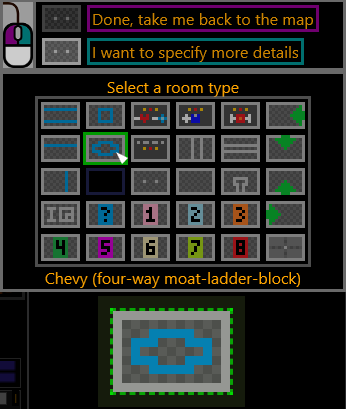
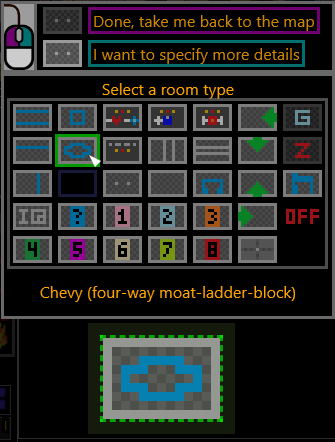
reset timer activates start-spot placement documentation fixes

diff --git a/doc/use.md b/doc/use.md
@@ -173,7 +173,8 @@ Question mark icon - Mouse hovering this brings up the "Mouse Hover Explainer" w
 
 Timer - Displays the amount of time you have spent on the seed
 
-'Pause/Reset timer' button - Click this to pause the timer.  You will then be given options to click on, to either resume or reset the timer.
+'Pause/Reset timer' button - Click this to pause the timer.  You will then be given options to click on, to either resume or reset the timer.  If you reset the timer,
+you will also activate the <a id="main-buttons">'Start Spot' button</a> to mark the starting screen on the overworld.
 
 <a id="spot-summary">'Spot Summary'</a> - Mouse-hovering 'Spot Summary' displays all the possible overworld locations that can be found, graying out the subset you have already found.
 This makes it easy to get an overview glance at what remains to be found, or see e.g. how many large secrets or door repair charges remain, if
@@ -287,7 +288,7 @@ tracker for "The Legend of Zelda" randomizer.
 
 There are a number of buttons near the bottom right of the overworld map.
 
-You can click the '**Start Spot**' button in the legend to mark your starting screen on the overworld map.
+You can click the '**Start Spot**' button in the legend to mark your starting screen on the overworld map.  This behavior also activates automatically when you reset the timer.
 
 <a id="helpful-hint">Clicking the '**Hint decoder**' button</a> in the bottom right pops up the 'Aquamentus Awaits' table, where you can populate location hints for dungeons/swords. 
 Each hinted-but-not-yet-found location causes a 'halo' to appear on the triforce/sword icon in the upper portion of the tracker, and hovering the halo
@@ -389,7 +390,7 @@ If all you care about it 'what rooms have I been in, and what rooms have I compl
 ![Dungeon room completed example screenshot](screenshots/dungeon-room-completed-example.png)
 
 If you want to change a RoomType (to mark a transport staircase, hungry Goriya, chevy moat, ...), then right-click the room to bring up the RoomType popup:
- - a grid of 30 possible types of rooms appear
+ - a grid of 34 possible types of rooms appear
  - choose the one you want with your mouse, and left-click it
 
 ![Dungeon room chooser screenshot](screenshots/dungeon-room-chooser.png)
@@ -426,9 +427,7 @@ zero extra mousing.
 
 There is one special RoomType, called OffTheMap.  This RoomType is displayed as a big black box over the room area, effectively making a 'hole' in the 
 dungeon map.  The main scenario for using it is in e.g. Shapes 9 when you have an Atlas; when first entering the dungeon, rather than 'paint out' all the 
-on-the-minimap rooms, it would be faster to just 'mark off the holes'.  RoomType.OffTheMap is not available in the room selection popup.  You can either use 
-it by mapping a hotkey, or you can also select it by right clicking a room to bring up the popup, right clicking the Unmarked tile in the grid, and then 
-right clicking the Unmarked preview-tile to save the room.  That is, triple-right-clicking an Unmarked room will turn it into OffTheMap.  An example of 
+on-the-minimap rooms, it would be faster to just 'mark off the holes'.  RoomType.OffTheMap appears as "OFF" in the room selection popup.  An example of 
 marking eight OffTheMap spots appears in this screenshot:
 
 ![DungeonRoom.OffTheMap sample screenshot](screenshots/dungeon-room-off-the-map-example.png)

diff --git a/doc/whats-new.md b/doc/whats-new.md
@@ -75,7 +75,8 @@ a certain item, but you forget what you set it to.
  - made dungeon LEVEL/BOARD header use Zelda font
  - speaking either "don't care" or "nothing" will mark off an overworld tile using [Speech Recognition](use.md#speech-recognition)
  - when you get a reminder to consider the magical sword, tracker now briefly highlights its location on the map
- - when you get the 8th triforce piece, tracker now briefly highlights the location of dungeon 9
+ - when you get the 8th triforce piece, reminder that dungeon 9 is unlocked now briefly highlights the location of dungeon 9
+ - when you reset the timer, you immediately get put into the 'place the start spot location icon' popup to mark your start screen
 
 ---
 

diff --git a/doc/TOC.md b/doc/TOC.md
@@ -10,6 +10,7 @@ Here are the main documentation sections for Z-Tracker v1.1.
    - [HotKeys and extra windows](extras.md)
 - [Stream-Capturing Z-Tracker with OBS](stream-capture.md)
 - Version History
+   - v1.2 (under development) feature update ([see what's new in 1.2](whats-new.md#v1.2))
    - v1.1 (released 2022-02-06) feature update ([see what's new in 1.1](whats-new.md#v1.1))
    - v1.0 (released 2021-12-11) Initial public release ([original documentation](https://github.com/brianmcn/Zelda1RandoTools/blob/v1.0/doc/TOC.md)) 
 - [About Z-Tracker and the people who made it](about.md)
